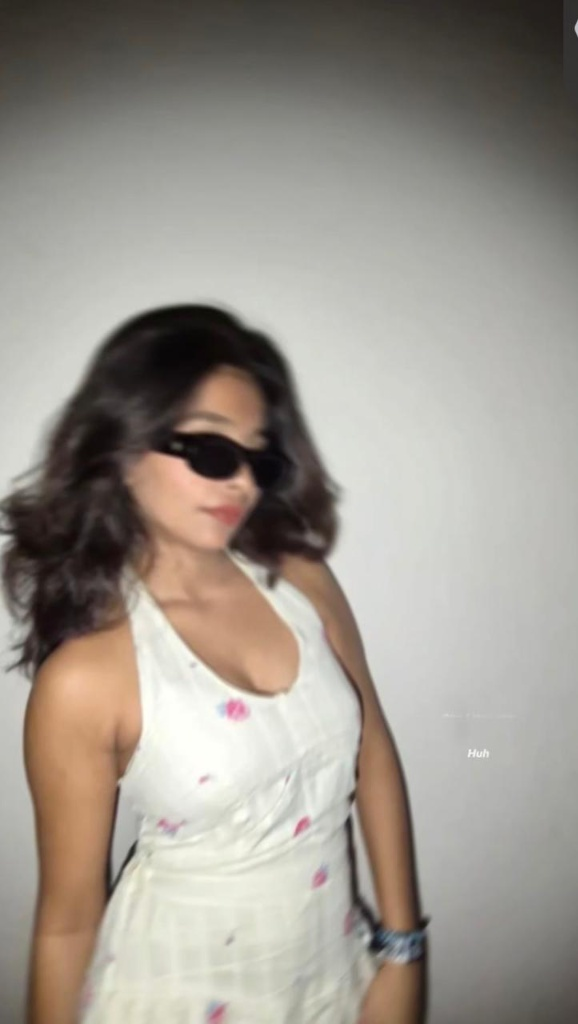
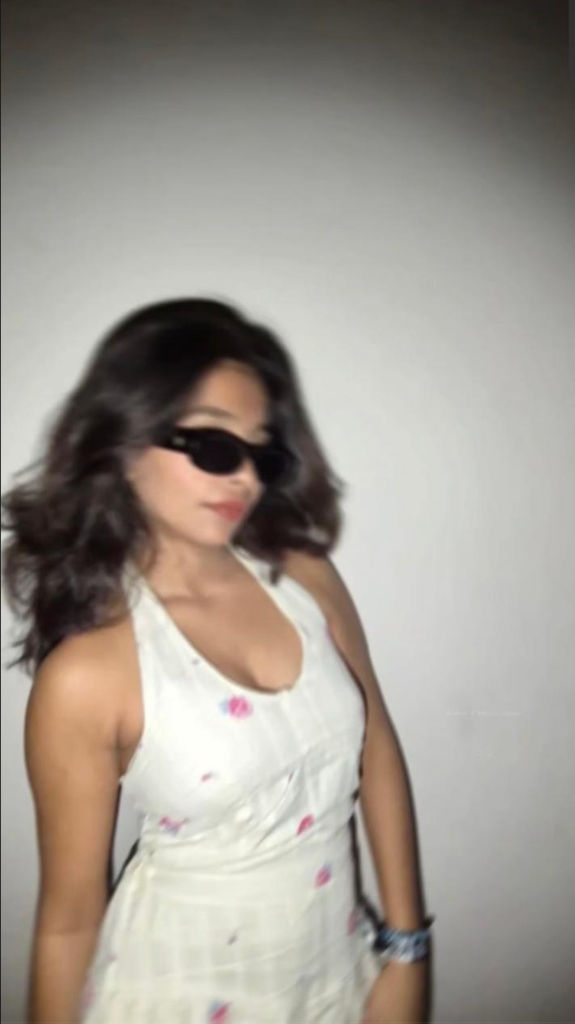
feat(media): replace framed portrait with plain borderless raw photograph

diff --git a/src/components/home/IntroStatement.tsx b/src/components/home/IntroStatement.tsx
@@ -39,17 +39,15 @@ export default function IntroStatement() {
         {/* Middle Column: Real Photograph of Kirti in white halter top with sunglasses */}
         <div className="lg:col-span-4">
           <ScrollReveal direction="up" delay={0.1}>
-            <div className="relative aspect-[3/4] w-full bg-[#FAF7F2] p-3 border border-[#161616]/15 shadow-md group">
-              <div className="relative w-full h-full overflow-hidden bg-[#E5D8C8]/50">
-                <Image
-                  src="/images/portrait/kirti-portrait-sunglasses.jpg"
-                  alt="Kirti Desai in white dress with sunglasses"
-                  fill
-                  sizes="(max-width: 768px) 100vw, 400px"
-                  className="object-cover object-top group-hover:scale-105 transition-transform duration-700 ease-out"
-                  data-cursor="open"
-                />
-              </div>
+            <div className="relative aspect-[3/4] w-full overflow-hidden group">
+              <Image
+                src="/images/portrait/kirti-portrait-sunglasses.jpg"
+                alt="Kirti Desai in white dress with sunglasses"
+                fill
+                sizes="(max-width: 768px) 100vw, 400px"
+                className="object-cover object-top group-hover:scale-105 transition-transform duration-700 ease-out"
+                data-cursor="open"
+              />
             </div>
           </ScrollReveal>
         </div>

diff --git a/src/app/about/page.tsx b/src/app/about/page.tsx
@@ -17,17 +17,15 @@ export default function AboutPage() {
       <div className="grid grid-cols-1 lg:grid-cols-12 gap-12 items-center pb-20 border-b border-[#161616]/10">
         {/* Real Photograph */}
         <div className="lg:col-span-5">
-          <div className="relative aspect-[3/4] w-full bg-[#FAF7F2] p-4 border border-[#161616]/15 shadow-xl">
-            <div className="relative w-full h-full overflow-hidden bg-[#E5D8C8]/50">
-              <Image
-                src="/images/portrait/kirti-portrait-sunglasses.jpg"
-                alt="Kirti Desai — Fashion Designer"
-                fill
-                priority
-                sizes="(max-width: 1024px) 100vw, 500px"
-                className="object-cover object-top"
-              />
-            </div>
+          <div className="relative aspect-[3/4] w-full overflow-hidden">
+            <Image
+              src="/images/portrait/kirti-portrait-sunglasses.jpg"
+              alt="Kirti Desai — Fashion Designer"
+              fill
+              priority
+              sizes="(max-width: 1024px) 100vw, 500px"
+              className="object-cover object-top"
+            />
           </div>
         </div>
 
